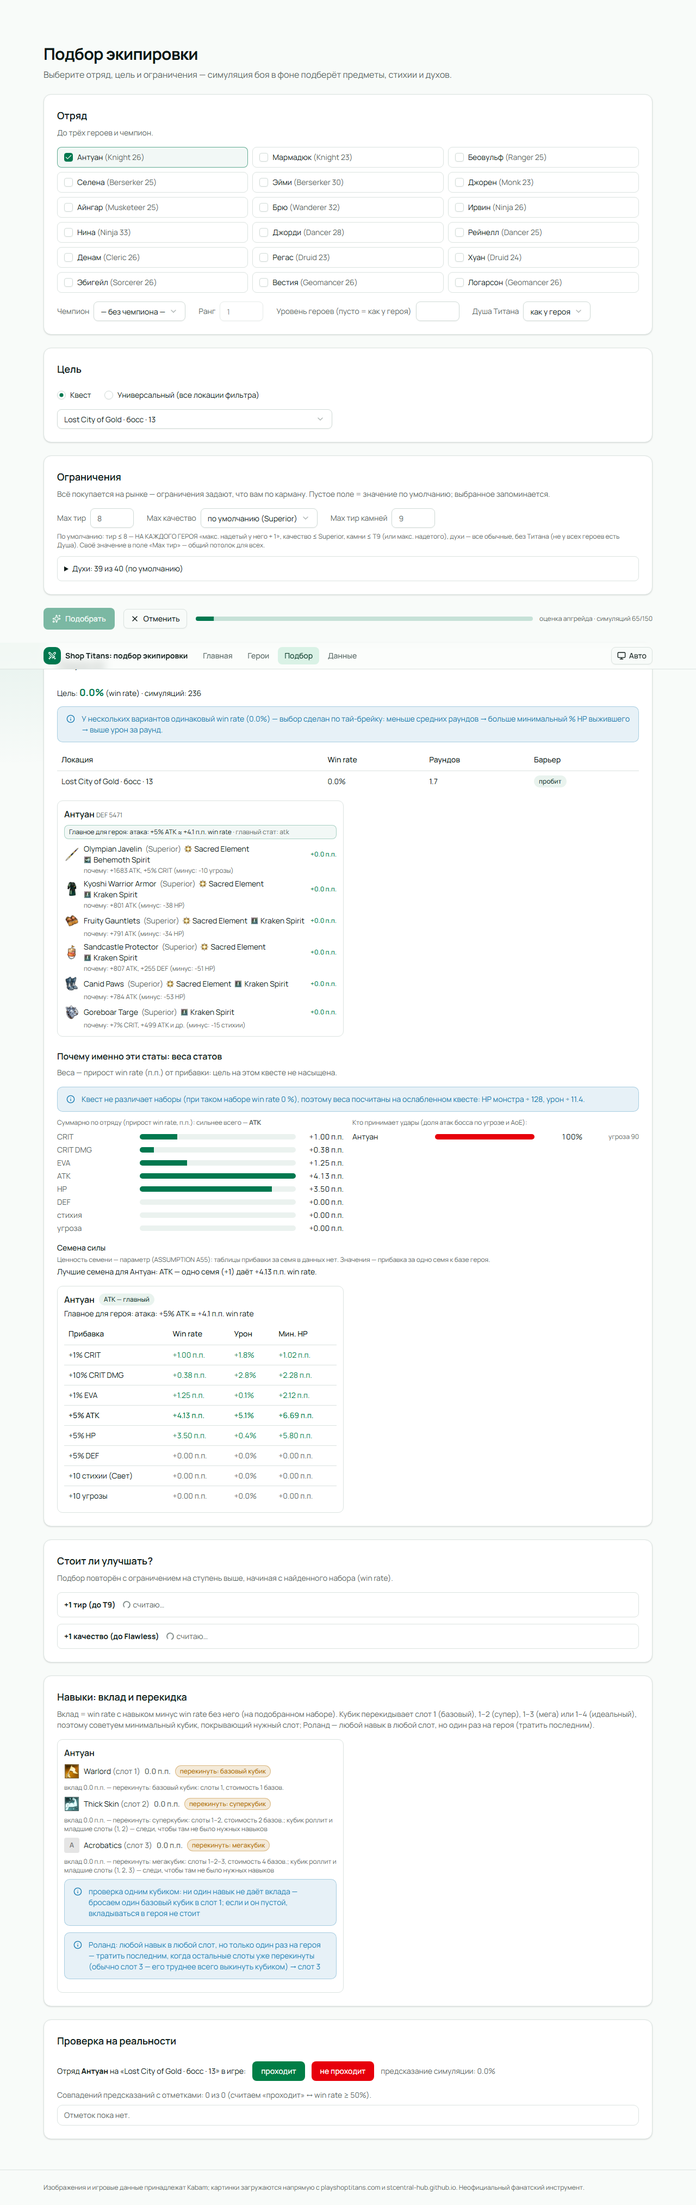
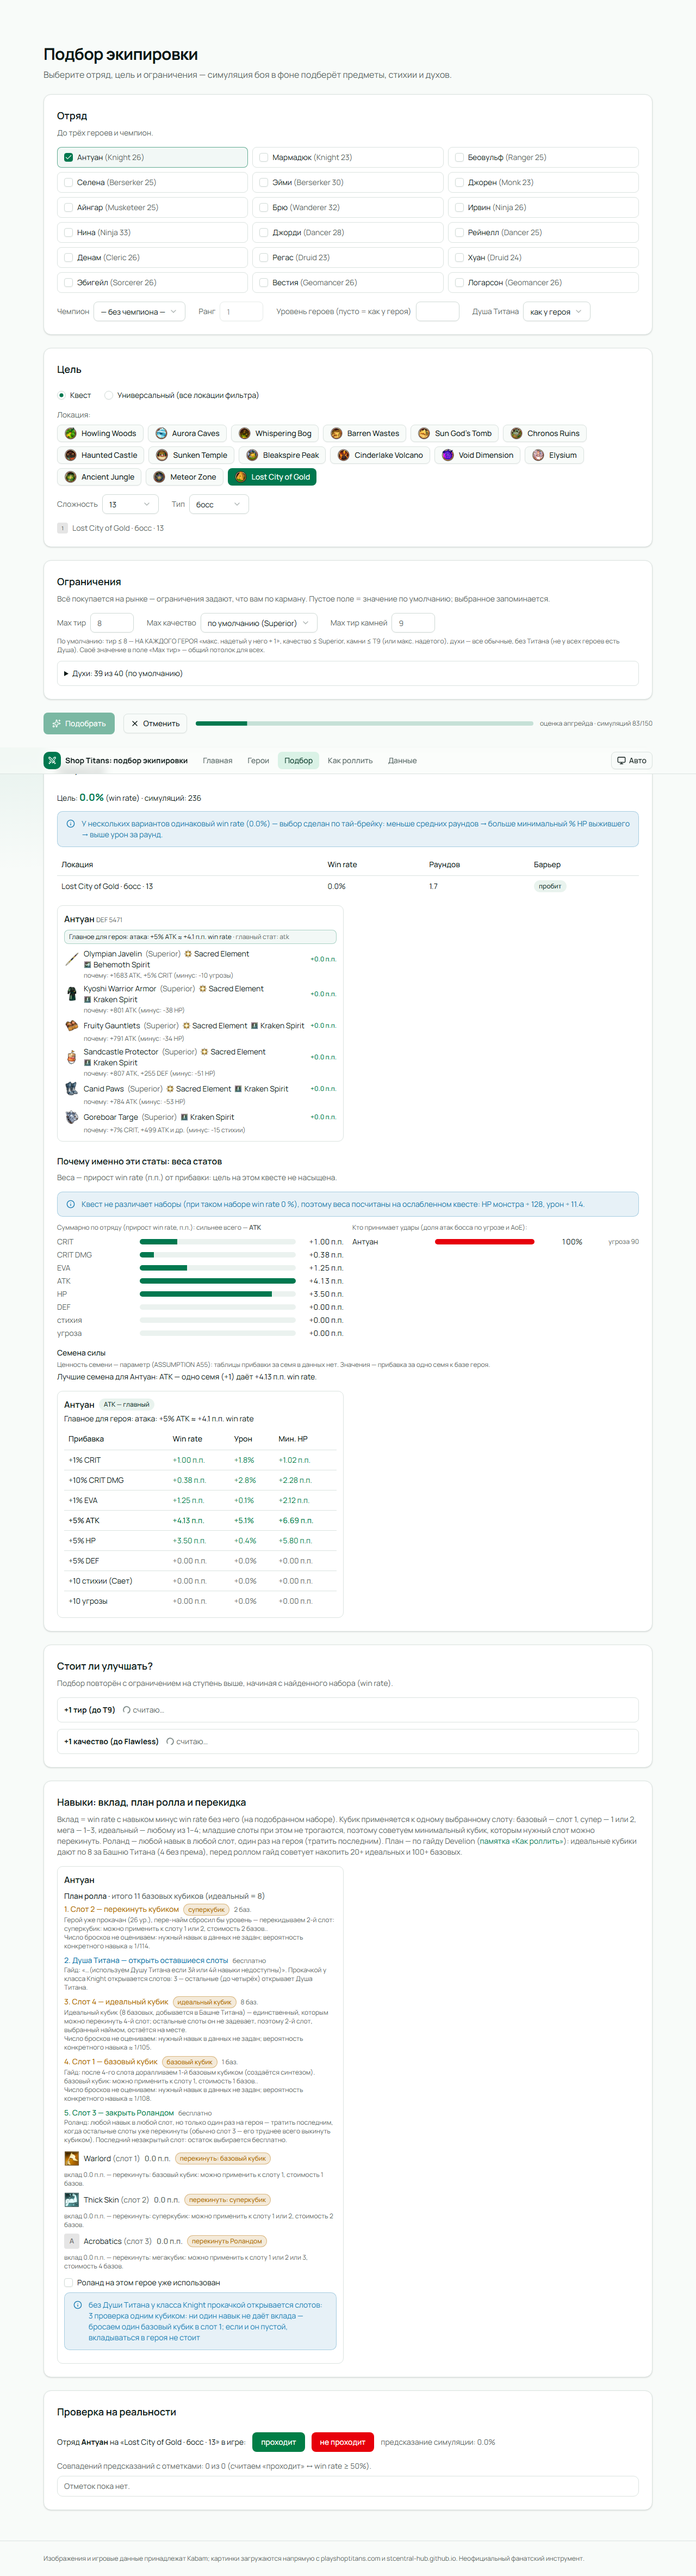
Иконки локаций и сложности на странице подбора, выбор квеста карточками

diff --git a/src/routes/optimize.tsx b/src/routes/optimize.tsx
@@ -8,6 +8,7 @@ import { Input } from '#/components/ui/input.tsx'
 import { NativeSelect, NativeSelectOption } from '#/components/ui/native-select.tsx'
 import { Progress } from '#/components/ui/progress.tsx'
 import { RadioGroup, RadioGroupItem } from '#/components/ui/radio-group.tsx'
+import { areaIconId, difficultyIconId } from '#/data/images.ts'
 import { loadHeroes } from '#/data/heroStore.ts'
 import { loadConstraintOverrides, saveConstraintOverrides } from '#/data/optimizeSettings.ts'
 import { addRealityCheck, loadRealityChecks, type RealityCheck } from '#/data/realityChecks.ts'
@@ -28,6 +29,7 @@ import type { SkillAdviceResult } from '#/engine/skills.ts'
 import { seedAdviceFromWeights, type SeedAdvice } from '#/engine/statWeights.ts'
 import { createEngine, type Engine } from '#/worker/client.ts'
 import { useGameData } from '#/ui/dataSync.ts'
+import { GameIcon } from '#/ui/GameIcon.tsx'
 import { Field, Notice, Page, Section } from '#/ui/layout.tsx'
 import { RealityChecksView } from '#/ui/optimize/RealityChecksView.tsx'
 import { ResultView } from '#/ui/optimize/ResultView.tsx'
@@ -53,6 +55,16 @@ function CheckItem({ checked, onChange, children }: { checked: boolean; onChange
       <Checkbox checked={checked} onCheckedChange={(v) => onChange(v === true)} />
       <span>{children}</span>
     </label>
+  )
+}
+
+/** Название области с иконкой из игры. */
+function AreaLabel({ area, size = 24 }: { area: string; size?: number }) {
+  return (
+    <span className="inline-flex items-center gap-2">
+      <GameIcon kind="area" id={areaIconId(area)} label={area} size={size} />
+      {area}
+    </span>
   )
 }
 
@@ -103,6 +115,8 @@ function OptimizePage() {
   const [champRank, setChampRank] = useState(1)
   const [mode, setMode] = useState<'quest' | 'universal'>('quest')
   const [questId, setQuestId] = useState('')
+  const [questDiff, setQuestDiff] = useState<string>('Hard')
+  const [questVariant, setQuestVariant] = useState<'normal' | 'boss'>('boss')
   const [uniDiff, setUniDiff] = useState<string>('Hard')
   const [uniVariant, setUniVariant] = useState<'normal' | 'boss'>('boss')
   const [uniAreas, setUniAreas] = useState<string[]>([])
@@ -122,6 +136,22 @@ function OptimizePage() {
   const [error, setError] = useState<string | null>(null)
 
   const quests = useMemo(() => (data ? questsWithCaps(data).quests : []), [data])
+  const questAreas = useMemo(() => [...new Set(quests.map((q) => q.area))], [quests])
+  const selectedQuest = useMemo(() => quests.find((q) => q.id === questId) ?? null, [quests, questId])
+  const pickQuestParams = (diff: string, variant: 'normal' | 'boss') => {
+    setQuestDiff(diff)
+    setQuestVariant(variant)
+    const area = selectedQuest?.area
+    setQuestId(quests.find((q) => q.area === area && q.difficulty === diff && q.variant === variant)?.id ?? '')
+  }
+  const pickQuestArea = (area: string) => {
+    const inArea = quests.filter((q) => q.area === area)
+    const q = inArea.find((x) => x.difficulty === questDiff && x.variant === questVariant) ?? inArea[0]
+    if (!q) return
+    setQuestId(q.id)
+    setQuestDiff(q.difficulty)
+    setQuestVariant(q.variant)
+  }
   const spirits = useMemo(() => (data ? data.enchants.filter((e) => e.kind === 'spirit').map((e) => e.name) : []), [data])
   const uniAreaList = useMemo(
     () => [...new Set(quests.filter((q) => q.difficulty === uniDiff && q.variant === uniVariant).map((q) => q.area))],
@@ -325,15 +355,51 @@ function OptimizePage() {
           <RadioItem value="universal">Универсальный (все локации фильтра)</RadioItem>
         </RadioGroup>
         {mode === 'quest' ? (
-          <NativeSelect className="w-full max-w-xl" value={questId} onChange={(e) => setQuestId(e.target.value)}>
-            <NativeSelectOption value="">— выберите квест —</NativeSelectOption>
-            {quests.map((q) => (
-              <NativeSelectOption key={q.id} value={q.id}>
-                {questLabel(q)}
-                {q.barrier ? ` · барьер ${q.barrier.elements.join('/')} ${q.barrier.hp}` : ''}
-              </NativeSelectOption>
-            ))}
-          </NativeSelect>
+          <div className="space-y-4">
+            <div>
+              <p className="mb-2 text-sm text-muted-foreground">Локация:</p>
+              <div className="flex flex-wrap gap-2" role="group" aria-label="Локация">
+                {questAreas.map((a) => (
+                  <Button
+                    key={a}
+                    type="button"
+                    size="sm"
+                    variant={a === selectedQuest?.area ? 'default' : 'outline'}
+                    aria-pressed={a === selectedQuest?.area}
+                    onClick={() => pickQuestArea(a)}
+                  >
+                    <AreaLabel area={a} />
+                  </Button>
+                ))}
+              </div>
+            </div>
+            <div className="flex flex-wrap items-center gap-x-6 gap-y-3">
+              <Field label="Сложность">
+                <NativeSelect value={selectedQuest?.difficulty ?? questDiff} onChange={(e) => pickQuestParams(e.target.value, questVariant)}>
+                  {[...new Set([...DIFFS, ...quests.map((q) => q.difficulty)])].map((d) => (
+                    <NativeSelectOption key={d}>{d}</NativeSelectOption>
+                  ))}
+                </NativeSelect>
+              </Field>
+              <Field label="Тип">
+                <NativeSelect value={selectedQuest?.variant ?? questVariant} onChange={(e) => pickQuestParams(questDiff, e.target.value as 'normal' | 'boss')}>
+                  <NativeSelectOption value="normal">обычный</NativeSelectOption>
+                  <NativeSelectOption value="boss">босс</NativeSelectOption>
+                </NativeSelect>
+              </Field>
+            </div>
+            {selectedQuest ? (
+              <p className="flex flex-wrap items-center gap-2 text-sm text-muted-foreground">
+                {difficultyIconId(selectedQuest.difficulty) && (
+                  <GameIcon kind="difficulty" id={difficultyIconId(selectedQuest.difficulty)} label={selectedQuest.difficulty} size={20} />
+                )}
+                {questLabel(selectedQuest)}
+                {selectedQuest.barrier ? ` · барьер ${selectedQuest.barrier.elements.join('/')} ${selectedQuest.barrier.hp}` : ''}
+              </p>
+            ) : (
+              <p className="text-sm text-muted-foreground">Для такого сочетания сложности и типа в этой локации квеста нет.</p>
+            )}
+          </div>
         ) : (
           <div className="space-y-4">
             <div className="flex flex-wrap items-center gap-x-6 gap-y-3">
@@ -359,7 +425,7 @@ function OptimizePage() {
               <div className="flex max-h-40 flex-wrap gap-x-4 gap-y-2 overflow-y-auto rounded-md border p-3">
                 {uniAreaList.map((a) => (
                   <CheckItem key={a} checked={uniAreas.includes(a)} onChange={(v) => setUniAreas((cur) => toggle(cur, a, v))}>
-                    {a}
+                    <AreaLabel area={a} />
                   </CheckItem>
                 ))}
               </div>

diff --git a/src/data/images.ts b/src/data/images.ts
@@ -11,7 +11,7 @@ export const imageMap = imageMapJson as ImageMap
 export const PST_ASSETS = 'https://playshoptitans.com/assets'
 export const FANKIT_HOST = 'https://stcentral-hub.github.io'
 
-export type IconKind = 'item' | 'spirit' | 'element' | 'type' | 'skill' | 'class'
+export type IconKind = 'item' | 'spirit' | 'element' | 'type' | 'skill' | 'class' | 'area' | 'difficulty'
 
 /**
  * id по видам:
@@ -19,7 +19,8 @@ export type IconKind = 'item' | 'spirit' | 'element' | 'type' | 'skill' | 'class
  *  spirit  — ключ духа (`turtle`);
  *  element — `fire` … `gold` или `all`;
  *  type    — код типа (`armorheavy`);
- *  skill, class — путь в fankit (`/fankit/Skills/Hero/icon_global_skill_p_cleave.png`).
+ *  skill, class — путь в fankit (`/fankit/Skills/Hero/icon_global_skill_p_cleave.png`);
+ *  area — имя файла из `fankit/Quest Areas/Quests` без префикса (`forest`), difficulty — `easy` … `extreme`.
  */
 export function iconUrl(kind: IconKind, id: string): string {
   switch (kind) {
@@ -31,6 +32,10 @@ export function iconUrl(kind: IconKind, id: string): string {
       return `${PST_ASSETS}/enchantments/elementAffinities/icon_global_element_${encodeURIComponent(id)}.png`
     case 'type':
       return `${PST_ASSETS}/ui/types/icon_global_item_${encodeURIComponent(id)}.png`
+    case 'area':
+      return `${FANKIT_HOST}/fankit/Quest%20Areas/Quests/icon_global_questarea_${encodeURIComponent(id)}_small.png`
+    case 'difficulty':
+      return `${FANKIT_HOST}/fankit/Quest%20Difficulties/icon_difficulty_${encodeURIComponent(id)}.png`
     case 'skill':
     case 'class':
       return FANKIT_HOST + encodeURI(id)
@@ -45,3 +50,27 @@ export const typeIconId = (type: string): string | null => imageMap.types[type] 
 export const skillIconId = (skillName: string): string | null => imageMap.skills[skillName.replace(/ #\d+$/, '')] ?? null
 export const classIconId = (className: string): string | null => imageMap.classes[className] ?? null
 export const elementIconId = (el: Element | 'All' | 'Any'): string => (el === 'Any' ? 'all' : el.toLowerCase())
+
+/** QUESTS.Area → файл иконки области в fankit (`Quest Areas/Quests`). Ручное соответствие: в таблице иконок областей нет. */
+const AREA_ICON_IDS: Record<string, string> = {
+  'Howling Woods': 'forest',
+  'Aurora Caves': 'grotto',
+  'Whispering Bog': 'swamp',
+  'Barren Wastes': 'desert',
+  "Sun God's Tomb": 'pyramid',
+  'Chronos Ruins': 'ruins',
+  'Haunted Castle': 'castle',
+  'Sunken Temple': 'temple',
+  'Bleakspire Peak': 'peak',
+  'Cinderlake Volcano': 'volcano',
+  'Void Dimension': 'rift',
+  Elysium: 'elysium',
+  'Ancient Jungle': 'jurassic',
+  'Meteor Zone': 'space',
+  'Lost City of Gold': 'goldcity',
+}
+export const areaIconId = (area: string): string | null => AREA_ICON_IDS[area] ?? null
+export const difficultyIconId = (difficulty: string): string | null => {
+  const id = difficulty.toLowerCase()
+  return ['easy', 'medium', 'hard', 'extreme'].includes(id) ? id : null
+}

diff --git a/e2e/optimize.spec.ts b/e2e/optimize.spec.ts
@@ -1,5 +1,5 @@
 import { expect, test } from '@playwright/test'
-import { importHeroesViaFile, pickHero, runOptimize, section, selectByLabel, shot, watchErrors } from './helpers.ts'
+import { importHeroesViaFile, pickHero, runOptimize, section, selectByLabel, shot, watchErrors, pickQuest } from './helpers.ts'
 
 test('подбор для одного героя под квест + советы по навыкам + отметка', async ({ page }) => {
   const errors = watchErrors(page)
@@ -7,10 +7,7 @@ test('подбор для одного героя под квест + совет
   await page.goto('/#/optimize')
   await expect(page.getByRole('heading', { name: 'Подбор экипировки' })).toBeVisible()
   await pickHero(page, 'Антуан')
-  await selectByLabel(
-    section(page, 'Цель').locator('select').first(),
-    /Lost City of Gold · босс · 13/,
-  )
+  await pickQuest(page, 'Lost City of Gold', '13', 'boss')
   await shot(page, 'optimize-form.png')
   await runOptimize(page)
   await expect(section(page, 'Результат').getByText(/Цель: \d+(\.\d)?%/)).toBeVisible()
@@ -107,7 +104,7 @@ test('отмена посреди расчёта; тяжёлый расчёт н
   for (const h of ['Антуан', 'Беовульф', 'Эбигейл']) await pickHero(page, h)
   await selectByLabel(page.getByLabel('Чемпион'), /Argon/)
   await page.getByLabel('Ранг').fill('5')
-  await selectByLabel(section(page, 'Цель').locator('select').first(), /Meteor Zone · босс · Extreme/)
+  await pickQuest(page, 'Meteor Zone', 'Extreme', 'boss')
   await page.getByRole('button', { name: 'Подобрать' }).click()
   await expect(page.getByText(/симуляций \d+\//)).toBeVisible({ timeout: 60_000 })
 

diff --git a/src/data/images.test.ts b/src/data/images.test.ts
@@ -1,0 +1,22 @@
+import { describe, expect, it } from 'vitest'
+import { fixtureGameData } from '../test/fixtures.ts'
+import { areaIconId, difficultyIconId, iconUrl } from './images.ts'
+
+describe('иконки локаций и сложности', () => {
+  it('у каждой области из данных есть иконка', () => {
+    const missing = fixtureGameData().questAreas.map((a) => a.name).filter((n) => areaIconId(n) === null)
+    expect(missing).toEqual([])
+  })
+
+  it('URL формируются в fankit stcentral-hub', () => {
+    expect(iconUrl('area', 'forest')).toBe(
+      'https://stcentral-hub.github.io/fankit/Quest%20Areas/Quests/icon_global_questarea_forest_small.png',
+    )
+    expect(iconUrl('difficulty', 'extreme')).toContain('/fankit/Quest%20Difficulties/icon_difficulty_extreme.png')
+  })
+
+  it('числовые «сложности» (тиры) без иконки', () => {
+    expect(difficultyIconId('Extreme')).toBe('extreme')
+    expect(difficultyIconId('13')).toBeNull()
+  })
+})

diff --git a/e2e/helpers.ts b/e2e/helpers.ts
@@ -87,3 +87,11 @@ export async function runOptimize(page: Page): Promise<void> {
   await page.getByRole('button', { name: 'Подобрать' }).click()
   await expect(section(page, 'Результат')).toBeVisible({ timeout: 180_000 })
 }
+
+/** Выбор квеста в режиме «Квест»: кнопка локации с иконкой, затем сложность и тип. */
+export async function pickQuest(page: Page, area: string, difficulty: string, variant: 'normal' | 'boss'): Promise<void> {
+  const target = section(page, 'Цель')
+  await target.getByRole('group', { name: 'Локация' }).getByRole('button', { name: area }).click()
+  await target.getByLabel('Сложность').selectOption(difficulty)
+  await target.getByLabel('Тип').selectOption(variant)
+}

diff --git a/docs/PROGRESS.md b/docs/PROGRESS.md
@@ -11,6 +11,14 @@
 - **Предупреждение сборки** о чанке > 500 КБ снято осознанно: это ленивый чанк снапшота данных (~1,7 МБ, 144 КБ gzip);
   порог поднят в `vite.config.ts` с комментарием.
 
+- **Иконки локаций на «Подборе»:** режим «Квест» вместо длинного `<select>` — кнопки локаций с иконками (fankit,
+  `Quest Areas/Quests`), затем «Сложность» и «Тип»; в универсальном режиме иконки у чекбоксов локаций. Соответствие
+  «область → файл иконки» задано вручную в `images.ts` (в таблице его нет), покрытие проверяет `images.test.ts`.
+  E2E переведены на хелпер `pickQuest`; 18/18 ✓ (проверено 6 затронутых).
+- **Навыки, меняющие снаряжение,** учитываются: парсер разбирает «+N% stats with <типы>», «from all items»,
+  «Lost City of Gold equipment», «innate elements», «enchanted item» в `itemStats`, `calcStats` применяет их множителем
+  к статам предметов, а оценка каждого кандидата идёт через `calcStats` — подбор видит эти бонусы.
+
 ### Дальше
 Без изменений относительно сессии 18 (отметки «проходит / не проходит» для калибровки, модель промоушена базовых
 классов, данные Reroll Odds).
